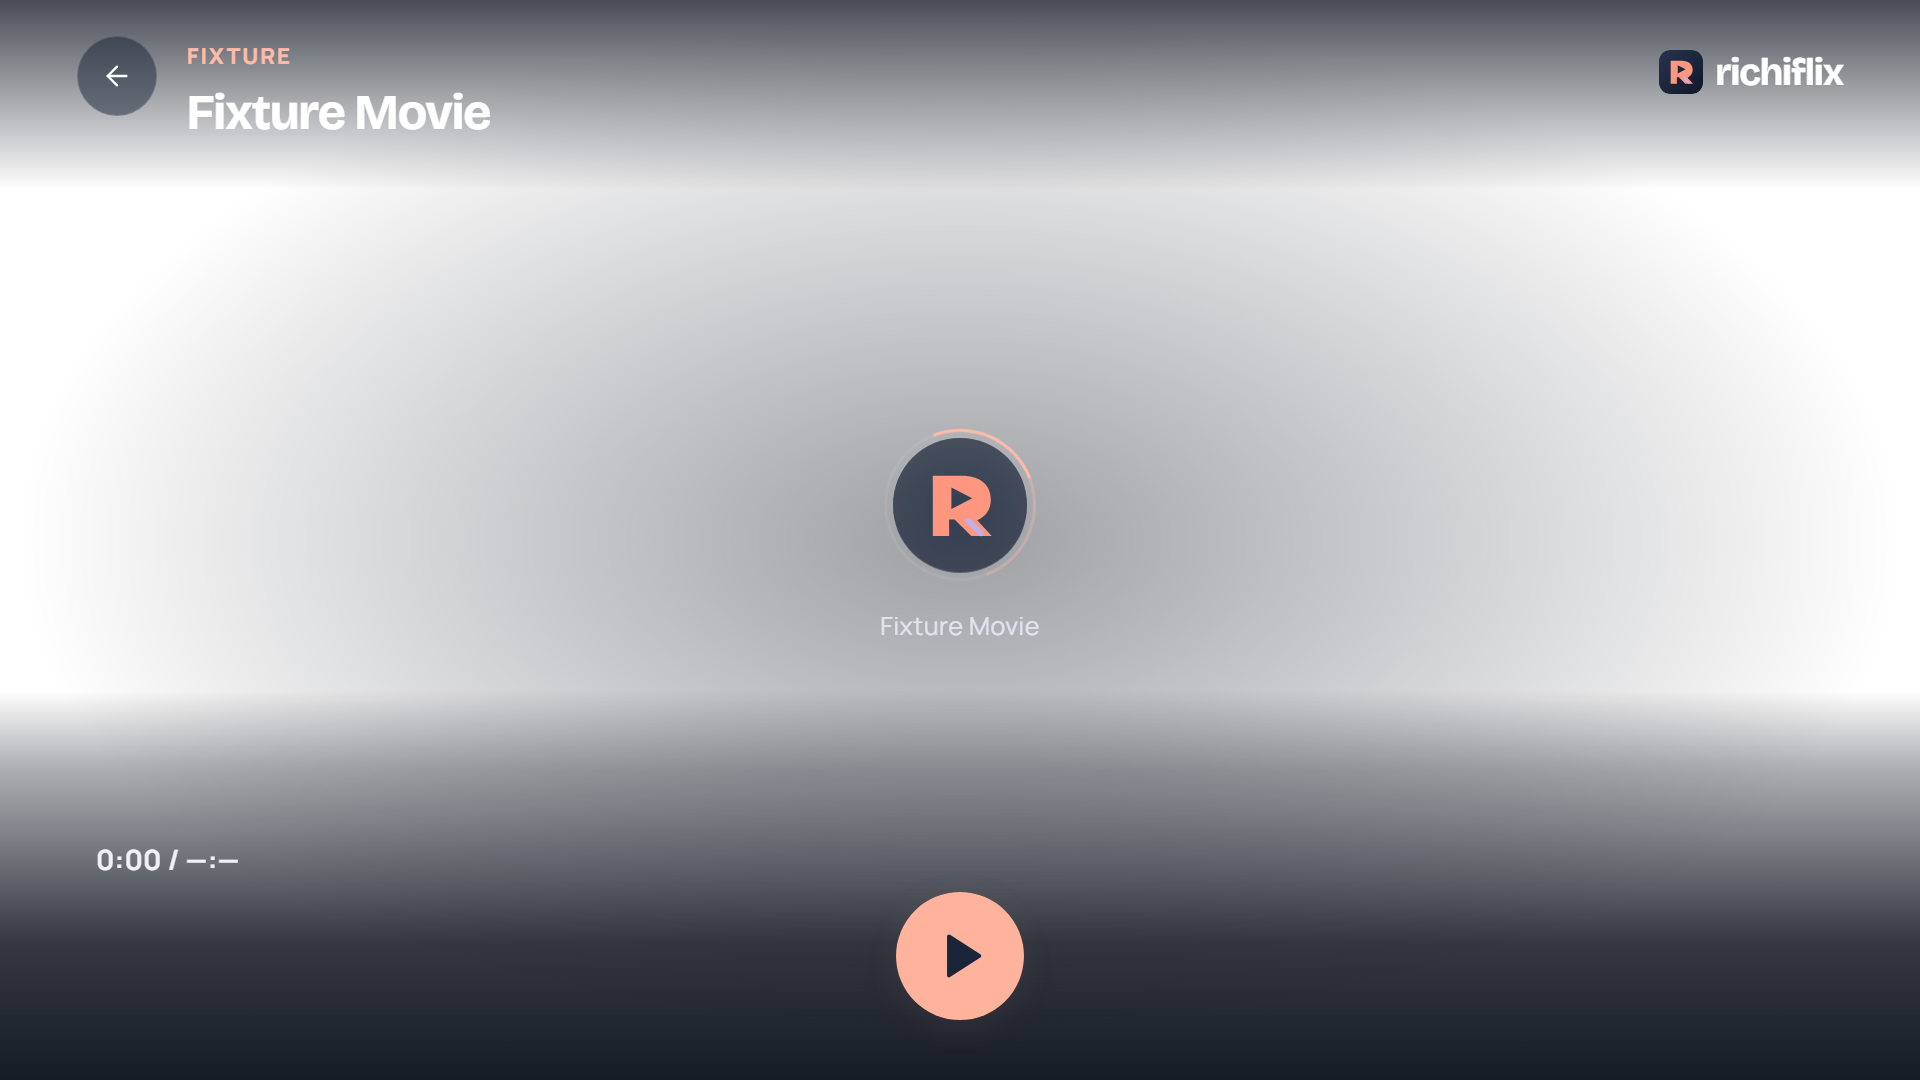
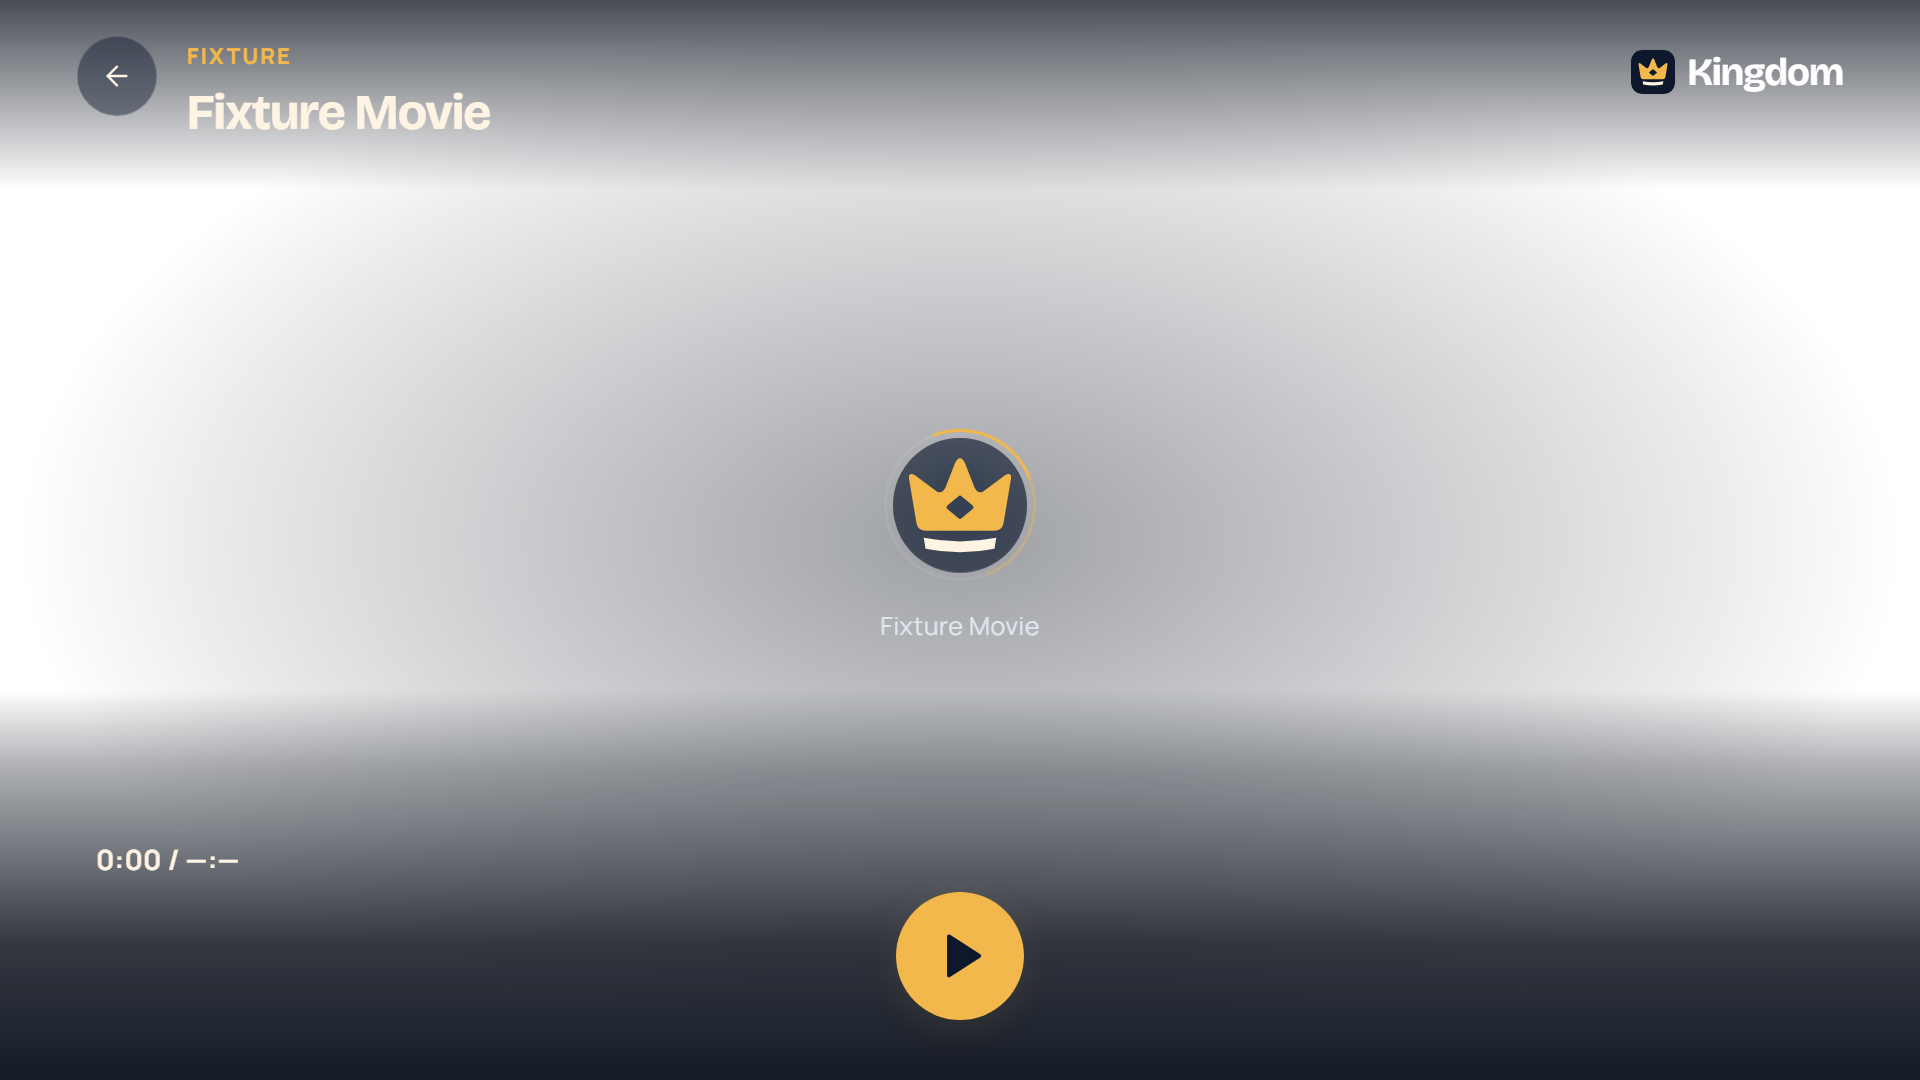
feat(G): informe G2 y capturas del smoke con la marca Kingdom

diff --git a/docs/plans/informe-G.md b/docs/plans/informe-G.md
@@ -1,0 +1,79 @@
+# Informe G2 · Integración de la marca Kingdom (Solaria)
+
+Fecha: 8 de octubre de 2026. Rama `Lozadaa/kingdom-G2-integracion` (worktree de Orca), creada desde `main` en `e84f488`. Propuesta elegida por Richard: **Solaria** (`docs/brand/propuestas/ronda-2/01-solaria/`). No se tocó el TV.
+
+## Commits (uno por paso)
+
+| Paso | Commit | Qué |
+|---|---|---|
+| 1 | `fc2abf8` | SVG en `public/brand/`, `scripts/export-brand.mjs` con nombres `kingdom-*`, PNG 16–1024, `kingdom.ico` y `tizen/icon.png` 117×117 |
+| 2 | `a0c399a` | `src/Brand.jsx`: corona y texto «Kingdom» |
+| 3 | `c306968` | Paleta Solaria en `:root` y tokens en vez de colores literales en `src/*.css` |
+| 4 | `3ed11ce` | Nombres: interfaz «Kingdom»; paquete, ventana y documentación «Kingdom Player» |
+| 5 | `abae010` | Prueba `src/brandNames.test.js`: en `src/` e `index.html` solo quedan nombres técnicos `richiflix` |
+
+## 1. Archivos de marca
+
+- `public/brand/kingdom.svg`: **icono maestro**, la corona Solaria sobre una placa redondeada `#0d172b` (cuadrícula de 64, margen ≥ 8 unidades de la corona, como pide el README de Solaria). Ocupa el lugar del antiguo `richiflix.svg`, que también era el icono con placa: de él salen los PNG, el ICO, el favicon y la marca de la cabecera.
+- `public/brand/kingdom-glyph.svg` = `simbolo.svg` de Solaria, sin cambios (loader de arranque y del reproductor).
+- `public/brand/kingdom-wordmark-player.svg` = `kingdom-player.svg` de Solaria, sin cambios (solo metadatos y documentación).
+- `scripts/export-brand.mjs`: mismo mecanismo (Chromium de Playwright, ya instalado); ahora lee `kingdom.svg`, escribe `kingdom-{16…1024}.png`, `kingdom.ico` (16–256) y además `tizen/icon.png`. `scripts/package-tizen.mjs` copia `tizen/icon.png` al WGT.
+- Se borraron `public/brand/richiflix*`; se actualizaron las referencias en `electron/main.cjs` (icono de ventana), `electron/images-smoke.cjs`, `scripts/tizen-smoke.mjs`, `index.html` y `src/Boot.jsx` (precarga del glifo).
+
+Desviación menor: el `kingdom.svg` de Solaria es el lettering «Kingdom», no un icono cuadrado. Como el plan reserva `public/brand/kingdom.svg` para el icono que alimenta los PNG, lo compuse con la corona sobre placa. El lettering de Solaria no se integró: la cabecera usa el texto «Kingdom» en Bricolage Grotesque, como pide la tarea y como indica el README de Solaria («los títulos mantienen Bricolage Grotesque/Manrope en G2»). Si Richard prefiere el lettering vectorial en la cabecera, basta con añadirlo como `public/brand/kingdom-wordmark.svg` y usarlo en `Brand`.
+
+## 2. `Brand.jsx`
+
+`BrandMark` → `kingdom.svg`, `BrandGlyph` → `kingdom-glyph.svg`, `Brand` → marca + `<span>Kingdom</span>`. Las clases CSS `richiflix-mark`, `richiflix-glyph` y `richiflix-art` pasaron a `kingdom-*` (en `style.css`, `QualityImage.jsx` y dos smokes que solo las usan como selectores).
+
+## 3. Paleta
+
+`:root` en `src/style.css`: `--bg #0d172b`, `--surface #1d2d49`, `--text #fff4e4`, `--text-2 #bac8e0`, `--accent #f2b84b`, `--focus #fff1d2`, `--kids #ff9478`, más los canales `--*-rgb` para transparencias. Desaparecen `--red`, `--coral`, `--lavender`, `--butter` e `--ink` (también en `CategoryMark.jsx`).
+
+**Restricción encontrada:** el build de Tizen compila con `cssTarget: 'chrome85'`, que no admite `color-mix()`. Por eso las variantes con alfa (`#101827ed`, `#f5d58d1f`…) se escriben como `rgba(var(--bg-rgb),.93)`; está comprobado en `dist-tizen` que salen intactas y que no hay ningún `color-mix`.
+
+Sustitución (script de un solo uso, 223 líneas en 13 CSS y `CategoryMark.jsx`, sin reglas ni propiedades nuevas, solo valores de color):
+
+| Antes | Después |
+|---|---|
+| Noche `#101827` y derivados | `--bg` |
+| Mantequilla `#f5d58d` | `--focus` en reglas de foco/halo; `--kids` en `.kids-space` (salvo foco); `--accent` en destacados (eyebrow, «pronto», guardado…) |
+| Coral `#ff977f`, `#ffbba9`, `#ffb39c` | `--accent`; `--focus` en contornos y reglas de foco (incluido el `:focus-visible` global) |
+| Hover claros `#ffb09d`, `#ffd3c9` | `--focus` |
+| Lavanda `#c1b0ee` | `--text-2` (detalle frío); `--accent` en seleccionado/activo/guardado/botones de reproducir; `--focus` en foco |
+| Nube `#f2f0f8` y blancos teñidos | `--text` |
+| Bruma `#aeb8c9`, `#bdb5e9` | `--text-2` |
+| Superficies `#182336`, `#253047` | `--surface` (como `color:` sobre relleno → `--bg`) |
+| Tintas oscuras sobre rellenos (`color:` `#152239`, `#172135`…) | `--bg` |
+| Avatares/tiles Kids `#eaa627`/`#efb333` | `--kids` con tinta `--bg` |
+
+Halo de foco = `--focus` (`.rail-halo`, `.card-open:after`, contornos de botones). Kids = `--kids`, con el mismo foco (como define Solaria). Reglas de rendimiento del TV intactas: ni sombras ni filtros ni `will-change` nuevos. Siguen literales los blancos/negros genéricos (`#fff`, `#0005`…) y algunos grises de detalle que no pertenecían a la paleta anterior.
+
+## 4. Nombres
+
+- Interfaz: `<title>Kingdom</title>`, favicons `kingdom.svg`/`kingdom-32.png`/`kingdom-256.png`, `theme-color` y fondo del arranque inline en `#0d172b`; loader «Preparando Kingdom»; cabecera y perfiles con `Brand`; «Salir de Kingdom»; etiqueta por defecto de `Dialog`; «TU KINGDOM» en Ajustes; mensaje «Este contenido está bloqueado en Kingdom.».
+- Metadatos: `tizen/config.xml` `<name>Kingdom Player</name>` (id `Richiflix1.Richiflix` y package `Richiflix1` **sin cambios**); `package.json` `"productName": "Kingdom Player"` (`name` sigue siendo `richiflix`); Electron `title`, `relaunchDisplayName` y `backgroundColor` actualizados, más `page-title-updated` con `preventDefault` para que la ventana no pase a mostrar el `<title>` «Kingdom».
+- `scripts/tv-cdp.mjs` encontraba la página del inspector del TV por `title === 'Richiflix'`; ahora acepta «Kingdom» o «Richiflix», así que `measure:tv` sigue funcionando antes y después de instalar.
+- Smokes actualizados a los nuevos textos (`performance-smoke`, `tizen-smoke`).
+- Documentación: `README.md` (nombre y lista de nombres técnicos conservados), `docs/BRAND.md` reescrito con Solaria, `docs/DESIGN.md` (tokens y foco blanco cálido). El prompt histórico de una ilustración en `DESIGN.md` conserva «Richiflix» porque es el texto literal que se usó.
+
+## 5. Comprobación de nombres
+
+`src/brandNames.test.js` (dentro de `npm test`) quita los patrones técnicos permitidos y falla si queda cualquier `richiflix` en `src/` o `index.html`; lo comprobé reintroduciendo «Richiflix» en `Brand.jsx` (falla) y deshaciendo el cambio. Lo que queda: eventos `richiflix-*`, `window.richiflix`/`globalThis.richiflix`, propiedades internas `richiflixRemote`/`richiflixPointerMoved`/`__richiflixPerformance`, bases IndexedDB `richiflix-xtream`/`richiflix-library`/`richiflix-artwork`, nombres de worker, el protocolo `richiflix:` y `richiflix.local`. Las claves `rf-*` no se tocaron.
+
+No se renombraron (técnicos, documentados en `docs/BRAND.md`): `artifacts/Richiflix-Tizen-unsigned.wgt` y `assets/richiflix.js` (los usa `scripts/tizen-install.ps1`), `Richiflix.lnk`, `local.richiflix`.
+
+## Verificación
+
+- `npm test`: **356/356** (355 previas + la nueva).
+- `npm run build`: OK.
+- `npm run build:tizen` y después `npm run test:tizen`: **OK** («Tizen smoke OK: … Kids y salida»).
+- WGT: `<tizen:application id="Richiflix1.Richiflix" package="Richiflix1" …/>`, `<name>Kingdom Player</name>`, `icon.png` idéntico a `tizen/icon.png` (117×117), `<title>Kingdom</title>`.
+- Capturas de la fixture headless (solo lecturas), en `artifacts/` (ignorado por git): `kingdom-loader.png`, `kingdom-perfiles.png`, `kingdom-cabecera.png`, `kingdom-fila-foco.png`. Además el smoke regeneró las capturas versionadas `player-loader-preview.png` y `tizen-player-preview.png` con la marca nueva.
+
+**Hallazgo sobre `test:tizen`:** falla también en `main`/`e84f488`, antes de G2 (comprobado en un worktree temporal). La causa es que el smoke espera el login de fábrica (`VITE_DEFAULT_SOURCE`, en `.env.local`, ignorado por git) y los worktrees de Orca no lo tienen. Copié el `.env.local` del checkout principal a este worktree (sigue ignorado por git; el smoke desvía la API del proveedor a la fixture, así que no sale nada a la red) y con él pasa. Los demás agentes van a encontrar el mismo fallo en sus worktrees. Ojo: con ese archivo, el `.wgt` generado lleva el login de fábrica, igual que los builds del checkout principal.
+
+## Pendiente (Richard)
+
+- Paso 4 del plan, en el TV y cuando Richard lo indique: icono en el lanzador de Samsung, cabecera, perfiles, loader, fila con foco y reproductor.
+- Al integrar con el bloque E (otro agente, en paralelo): `PlaybackSidebar`/`playbackSidebar.css` nacen fuera de esta rama. Si traen literales de la paleta anterior (el plan sugiere `rgba(16,24,39,.55)`), hay que pasarlos a `rgba(var(--bg-rgb),.55)`. No toqué `Player.jsx`, `avplay.js` ni `platform.js`.
